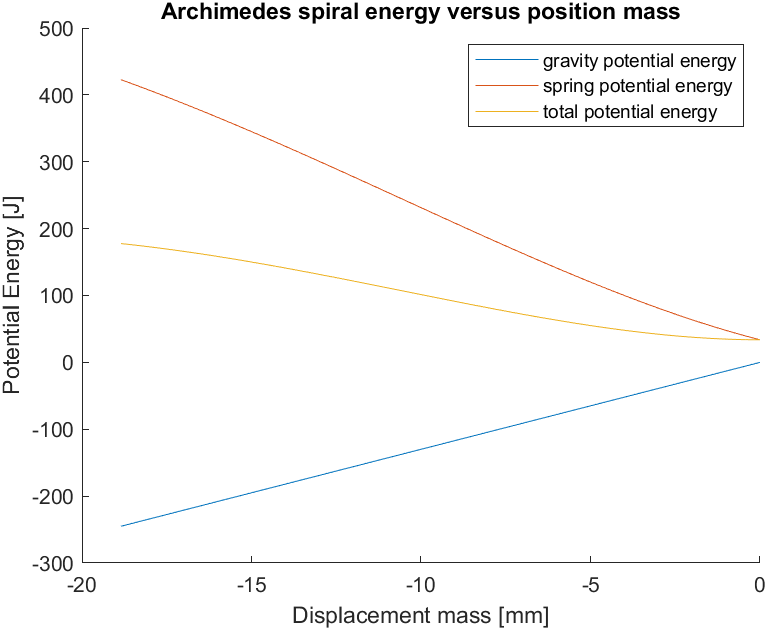
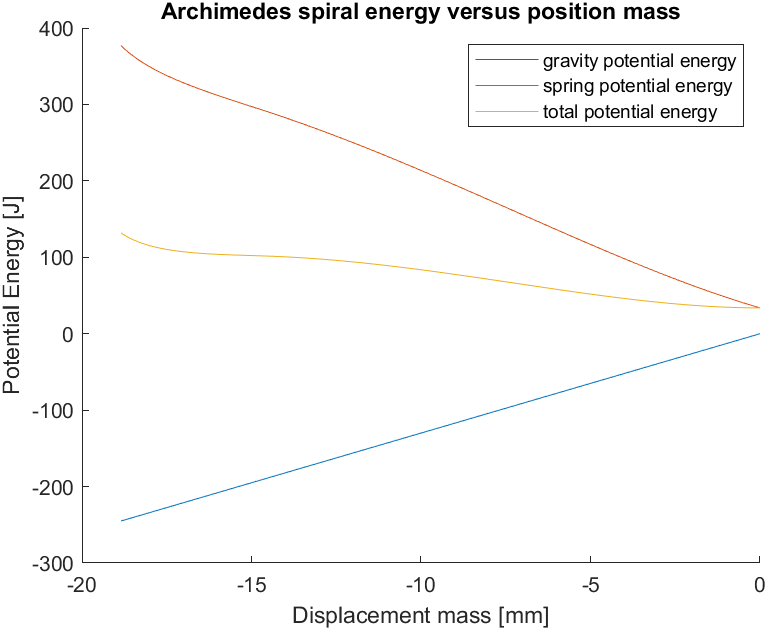
updated images

diff --git a/Spiral pulley/spiral.m b/Spiral pulley/spiral.m
@@ -146,15 +146,19 @@ classdef spiral
         end
         
         function obj = mass_spring_movement(obj,n_steps, spring_offset)
-            obj.spring_offset = spring_offset;
-            obj.x_m2 = max(obj.theta)*obj.r2; %computing max extension of the spring
+            obj.spring_offset = spring_offset; %safing the spring ofset
+            
+            %computing max extension of the spring
+            obj.x_m2 = max(obj.theta)*obj.r2; 
+            
             stepsize = obj.x_m2/n_steps;
             obj.x_m = -[0:stepsize:obj.x_m2]; %computing linear position of the mass
+            
             obj.x_s = zeros(1,length(obj.x_m)); %[m] creating empty spring position array
             obj.rs = zeros(1,length(obj.x_m)); %[rad] empty array for radius versus angle
-            validdata = zeros(1,length(obj.x_m));
+            
             obj.phi = -obj.x_m / (obj.r2); % [rad] computing the angles that the system will go trough during the stroke of the system
-            obj.x_s(1) = obj.F0 / obj.k + spring_offset;  %initial extension spring
+            obj.x_s(1) = obj.F0 *(obj.r2/obj.r1)/ obj.k + spring_offset;  %initial extension spring
             obj.rs(1) = obj.r2;
             for i = 2 : length(obj.phi) %starting at the second position as the first angle position is zero
                 validdata(i) = obj.phi(i) <= max(obj.theta); %if the current angle is greater than the maximal design angle the data is invalid
